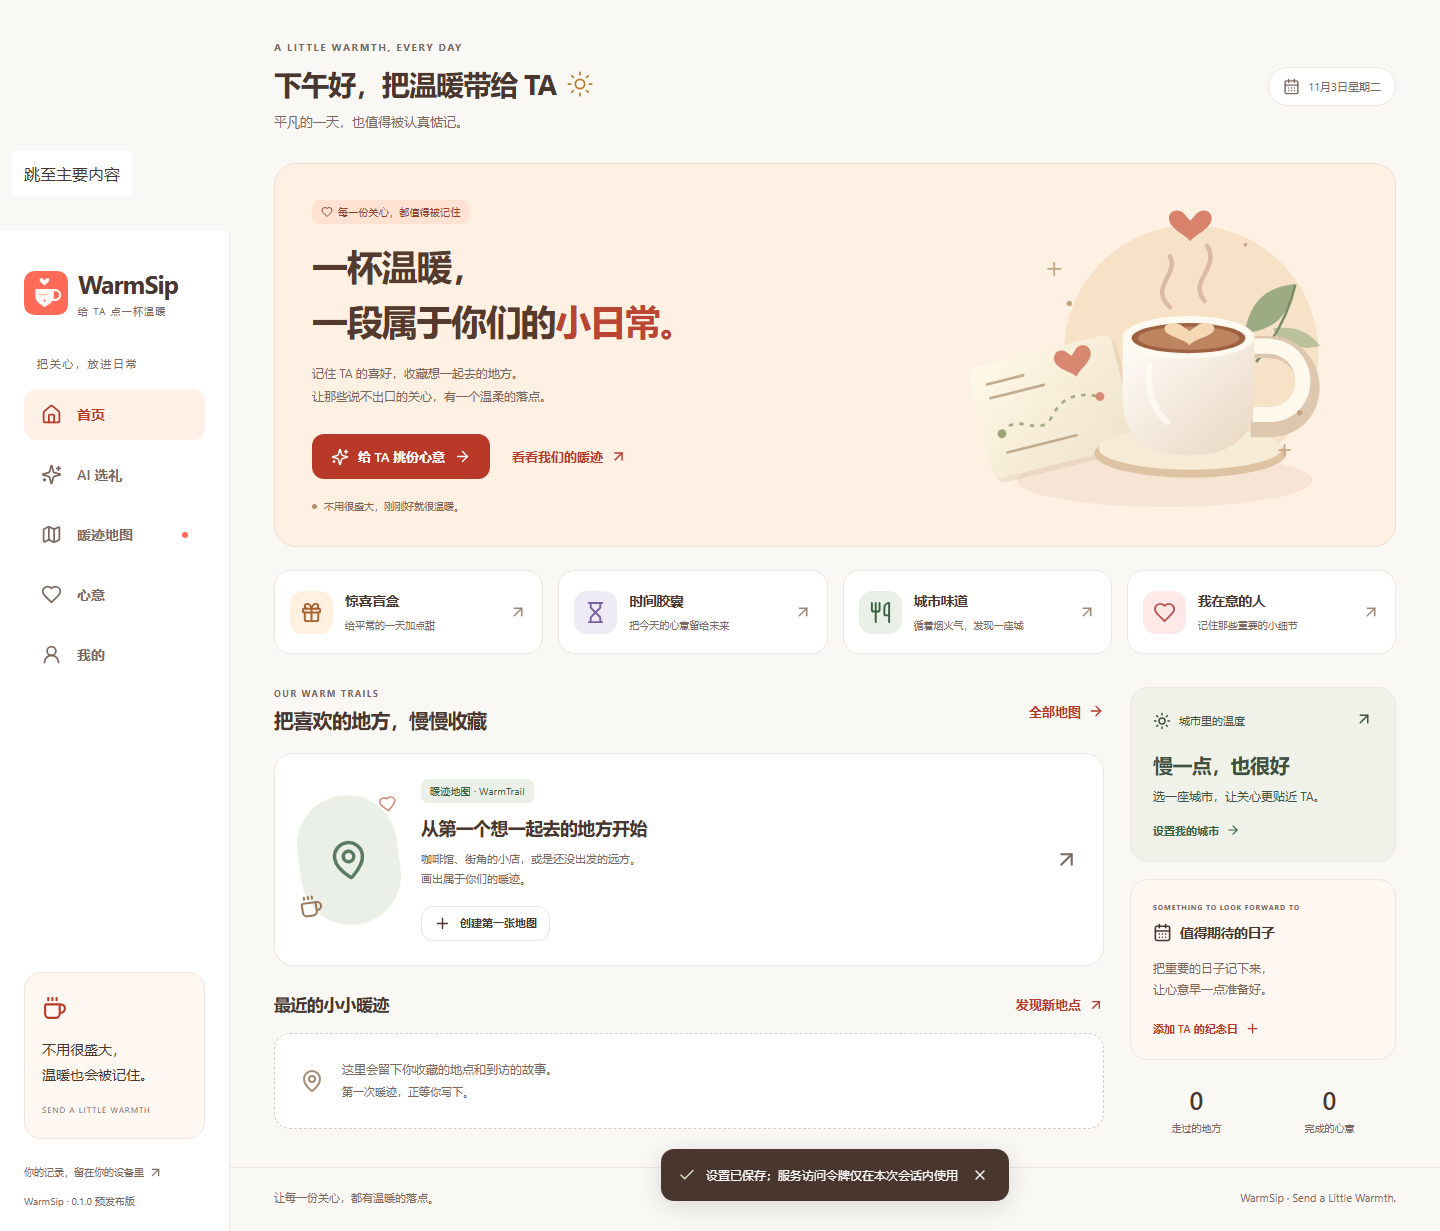
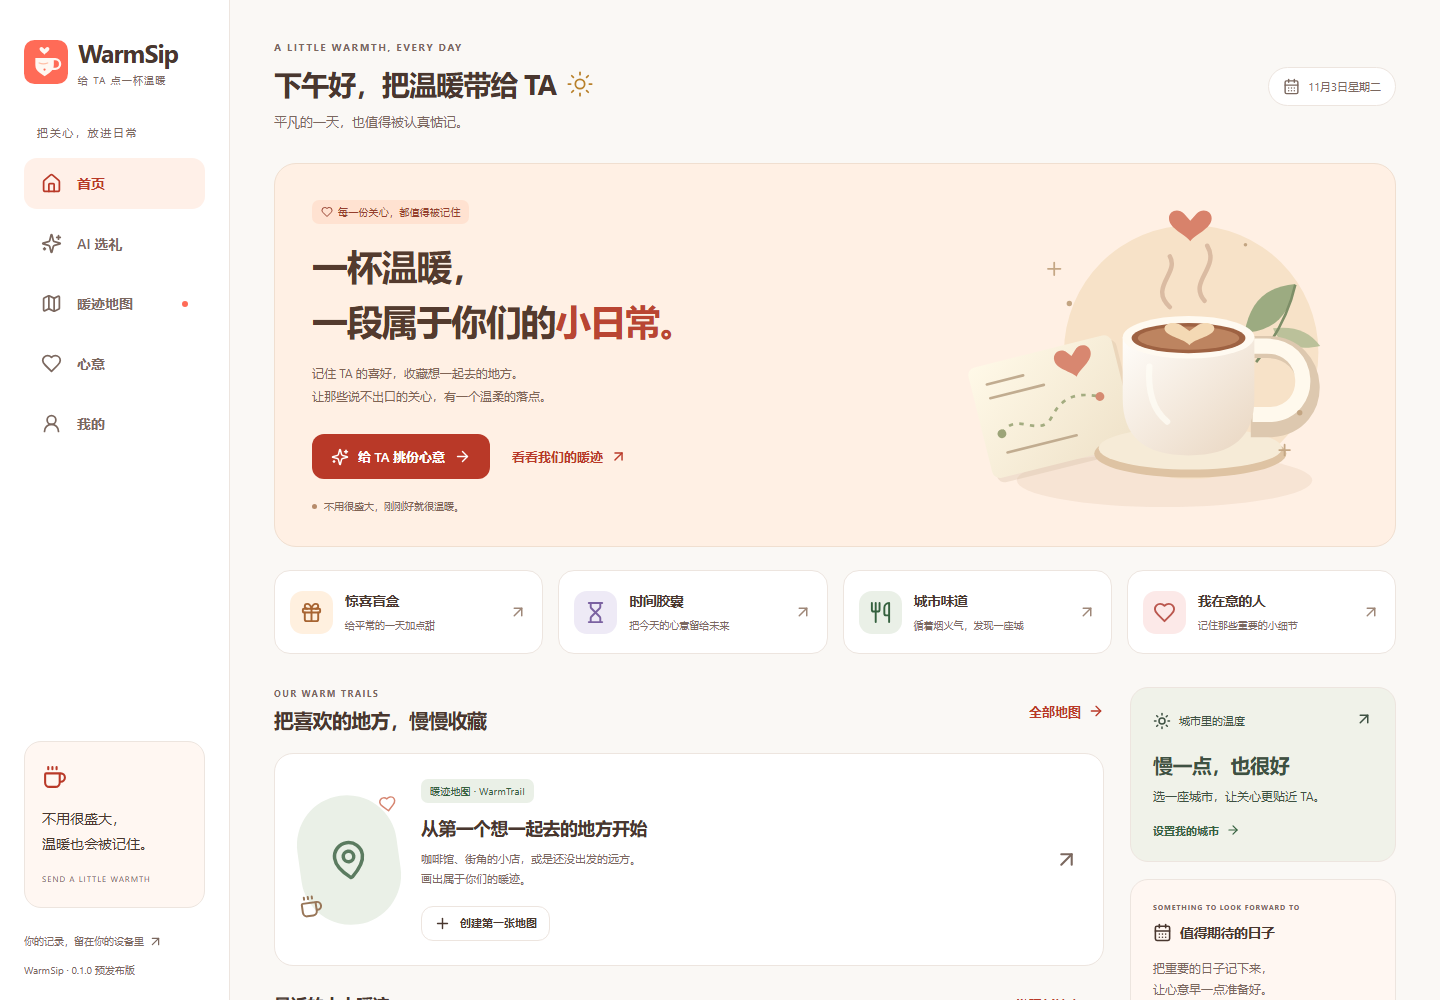
fix: finalize cancellation and native prerelease verification

diff --git a/tests/e2e/smoke.spec.ts b/tests/e2e/smoke.spec.ts
@@ -65,6 +65,13 @@ async function addPlace(page: Page, name: string) {
   await expect(page.getByRole("heading", { name, exact: true })).toBeVisible();
 }
 
+async function prepareScreenshot(page: Page) {
+  const close = page.getByRole("button", { name: "关闭提示", exact: true });
+  if (await close.isVisible()) await close.click();
+  await page.locator("main").focus();
+  await page.evaluate(() => window.scrollTo(0, 0));
+}
+
 test("多地图隔离、照片打卡、隐私分享与删除撤销", async ({ page }, info) => {
   const first = await createMap(page, "周末的小小暖迹");
   await addPlace(page, "午后的窗边");
@@ -78,9 +85,10 @@ test("多地图隔离、照片打卡、隐私分享与删除撤销", async ({ pa
   await page.getByLabel("加入私人备注").check();
   await expect(dialog.locator(".share-preview")).toContainText("只有自己知道");
   await page.keyboard.press("Escape");
+  await prepareScreenshot(page);
   await page.screenshot({
     path: info.outputPath(`map-${info.project.name}.png`),
-    fullPage: true,
+    fullPage: false,
   });
   const second = await createMap(page, "下一次出发");
   await expect(page.getByRole("heading", { name: "午后的窗边" })).toHaveCount(
@@ -222,11 +230,13 @@ test("关键页面明暗主题无障碍与移动布局", async ({ page }, info) 
           () => document.documentElement.scrollWidth <= window.innerWidth + 1,
         ),
       ).toBe(true);
-      if (route === "/")
+      if (route === "/") {
+        await prepareScreenshot(page);
         await page.screenshot({
           path: info.outputPath(`home-${theme}-${info.project.name}.png`),
-          fullPage: true,
+          fullPage: false,
         });
+      }
     }
   }
 });

diff --git a/src/features/Maps.tsx b/src/features/Maps.tsx
@@ -95,9 +95,16 @@ const statusIcons = {
 export function MapsPage() {
   const { maps, places } = useData();
   const [search, setSearch] = useState("");
-  const visible = maps.filter(
-    (m) => m.title.includes(search) || m.city.includes(search),
-  );
+  const [sort, setSort] = useState("updated");
+  const visible = maps
+    .filter((m) => m.title.includes(search) || m.city.includes(search))
+    .sort((a, b) =>
+      sort === "title"
+        ? a.title.localeCompare(b.title, "zh-CN")
+        : sort === "created"
+          ? b.createdAt - a.createdAt
+          : b.updatedAt - a.updatedAt,
+    );
   return (
     <>
       <PageTitle
@@ -155,6 +162,15 @@ export function MapsPage() {
         <h2>
           我的暖迹图 <small>{maps.length}</small>
         </h2>
+        <select
+          aria-label="地图排序"
+          value={sort}
+          onChange={(e) => setSort(e.target.value)}
+        >
+          <option value="updated">最近更新</option>
+          <option value="created">最近创建</option>
+          <option value="title">按名称排序</option>
+        </select>
         <label className="search-input">
           <Search size={17} />
           <input

diff --git a/src/services/api.ts b/src/services/api.ts
@@ -166,10 +166,21 @@ export class LatestRequest {
   async run<T>(work: (signal: AbortSignal) => Promise<T>): Promise<T> {
     this.cancel();
     const sequence = this.sequence;
-    this.current = new AbortController();
-    const value = await work(this.current.signal);
-    if (sequence !== this.sequence || this.current.signal.aborted)
-      throw new DOMException("旧请求已取消", "AbortError");
-    return value;
+    const controller = new AbortController();
+    this.current = controller;
+    let onAbort!: () => void;
+    const canceled = new Promise<never>((_, reject) => {
+      onAbort = () => reject(controller.signal.reason);
+      controller.signal.addEventListener("abort", onAbort, { once: true });
+    });
+    try {
+      const value = await Promise.race([work(controller.signal), canceled]);
+      if (sequence !== this.sequence || controller.signal.aborted)
+        throw new DOMException("旧请求已取消", "AbortError");
+      return value;
+    } finally {
+      controller.signal.removeEventListener("abort", onAbort);
+      if (this.current === controller) this.current = undefined;
+    }
   }
 }

diff --git a/tests/unit/domain.test.ts b/tests/unit/domain.test.ts
@@ -139,7 +139,7 @@ describe("request cancellation", () => {
     resolveOld("old");
     await rejection;
   });
-  it("rejects a canceled result even when the upstream ignores abort", async () => {
+  it("cancels immediately even when the upstream ignores abort and never finishes", async () => {
     const latest = new LatestRequest();
     let finish!: (v: string) => void;
     const pending = latest.run(
@@ -152,7 +152,8 @@ describe("request cancellation", () => {
       name: "AbortError",
     });
     latest.cancel();
-    finish("ignored");
     await rejection;
+    expect(await latest.run(async () => "retry")).toBe("retry");
+    finish("ignored");
   });
 });
